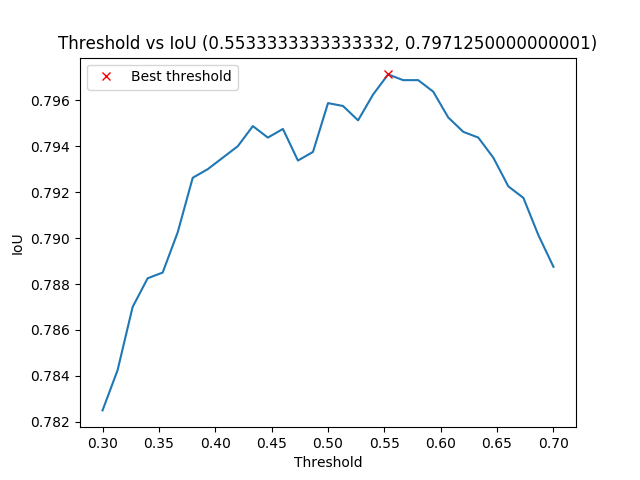
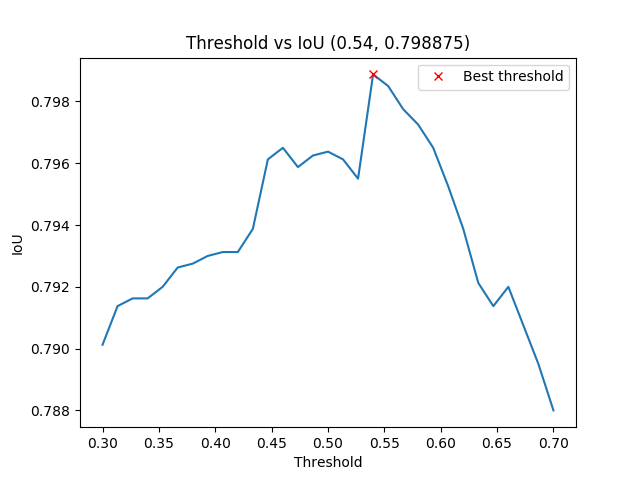
LB#7 複数モデルをBlendするテスト

diff --git a/src/Learning.py b/src/Learning.py
@@ -13,10 +13,9 @@ from keras.layers.pooling import MaxPooling2D
 from keras.layers.merge import concatenate
 from keras.callbacks import EarlyStopping, ModelCheckpoint, ReduceLROnPlateau
 from keras import backend as K
-from sklearn.model_selection import train_test_split
-
+from sklearn.model_selection import train_test_split, KFold, StratifiedKFold
 from Utils import loadpkl, IMG_SIZE_TARGET, upsample, downsample, my_iou_metric, save2pkl
-from preprocessing import get_input_data
+from Preprocessing import get_input_data
 
 """
 Preprocessingで作成したファイルを読み込み、モデルを学習するモジュール。
@@ -127,10 +126,22 @@ def build_model(input_layer, start_neurons, DropoutRatio = 0.5):
 
     return output_layer
 
+# TODO: # k-fold用に作っておきます
+def kfold_training(train_df, test_df, num_folds, stratified = True, debug= False):
+
+    # cross validation model
+    if stratified:
+        folds = StratifiedKFold(n_splits= num_folds, shuffle=True, random_state=47)
+    else:
+        folds = KFold(n_splits= num_folds, shuffle=True, random_state=47)
+
+    for n_fold, (train_idx, valid_idx) in enumerate(folds.split(train_df[feats], train_df['TARGET'])):
+
+
 def main():
 
     # Loading of training/testing ids and depths
-    if os.path.isfile('../output/train_df.pkl'):
+    if os.path.isfile('../output/train_df.pkl') and os.path.isfile('../output/test_df.pkl'):
         train_df = loadpkl('../output/train_df.pkl')
         test_df = loadpkl('../output/test_df.pkl')
     else:
@@ -143,7 +154,9 @@ def main():
                                                                     np.array(train_df.masks.tolist()).reshape(-1, IMG_SIZE_TARGET, IMG_SIZE_TARGET, 1),
                                                                     train_df.coverage.values,
                                                                     train_df.z.values,
-                                                                    test_size=0.2, stratify=train_df.coverage_class, random_state= 1234)
+                                                                    test_size=0.2,
+                                                                    stratify=train_df.coverage_class,
+                                                                    random_state= 1234)
     # save validation data
     save2pkl('../output/x_valid.pkl', x_valid)
     save2pkl('../output/y_valid.pkl', y_valid)
@@ -161,7 +174,7 @@ def main():
     model.compile(loss="binary_crossentropy", optimizer="adam", metrics=[my_iou_metric])
 
     early_stopping = EarlyStopping(monitor='val_my_iou_metric', mode = 'max', patience=20, verbose=1)
-    model_checkpoint = ModelCheckpoint("../output/unet_best1.model",monitor='val_my_iou_metric', mode = 'max', save_best_only=True, verbose=1)
+    model_checkpoint = ModelCheckpoint("../output/unet_best2.model",monitor='val_my_iou_metric', mode = 'max', save_best_only=True, verbose=1)
     reduce_lr = ReduceLROnPlateau(monitor='val_my_iou_metric', mode = 'max',factor=0.2, patience=5, min_lr=0.00001, verbose=1)
 
     epochs = 200

diff --git a/src/Predicting.py b/src/Predicting.py
@@ -23,10 +23,13 @@ def main():
     test_df = loadpkl('../output/test_df.pkl')
 
     # load model
-    model = load_model("../output/unet_best1.model", custom_objects={'my_iou_metric': my_iou_metric})
+    model1 = load_model("../output/unet_best1.model", custom_objects={'my_iou_metric': my_iou_metric})
+    model2 = load_model("../output/unet_best2.model", custom_objects={'my_iou_metric': my_iou_metric})
 
     # get prediction for validation data
-    preds_valid = predict_result(model, x_valid, IMG_SIZE_TARGET)
+    preds_valid = predict_result(model1, x_valid, IMG_SIZE_TARGET)
+    preds_valid += predict_result(model2, x_valid, IMG_SIZE_TARGET)
+    preds_valid = preds_valid / 2.0
 
     ## Scoring for last model
     thresholds = np.linspace(0.3, 0.7, 31)
@@ -49,7 +52,9 @@ def main():
     gc.collect()
 
     x_test = np.array([(np.array(load_img("../input/test/images/{}.png".format(idx), color_mode = "grayscale"))) / 255 for idx in tqdm(test_df.index)]).reshape(-1, IMG_SIZE_TARGET, IMG_SIZE_TARGET, 1)
-    preds_test = predict_result(model, x_test ,IMG_SIZE_TARGET)
+    preds_test = predict_result(model1, x_test ,IMG_SIZE_TARGET)
+    preds_test += predict_result(model2, x_test ,IMG_SIZE_TARGET)
+    preds_test = preds_test / 2.0
 
     t1 = time.time()
     pred_dict = {idx: rle_encode(filter_image(preds_test[i] > threshold_best)) for i, idx in enumerate(tqdm(test_df.index.values))}
